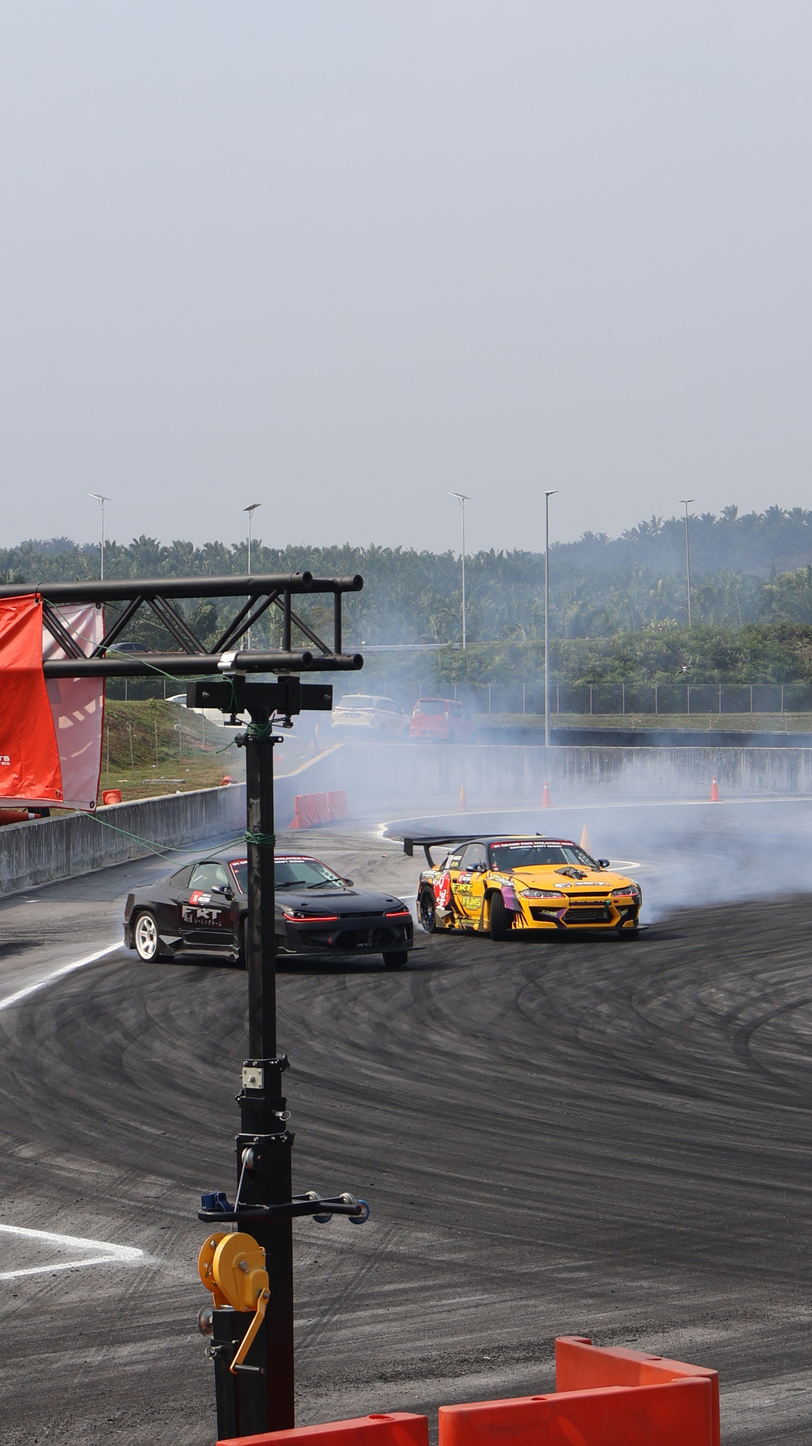
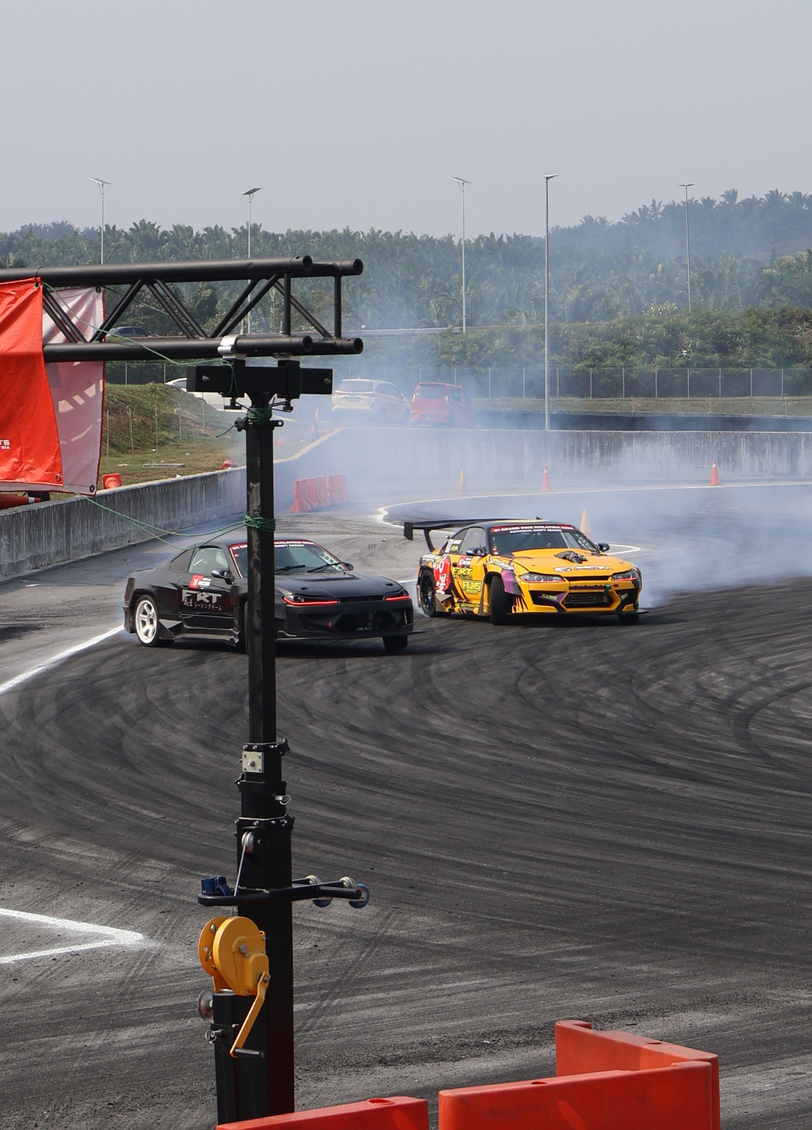
Carousel autoplay interval: 10s -> 5s

diff --git a/src/app/page.tsx b/src/app/page.tsx
@@ -456,7 +456,7 @@ export default function Home() {
                       slide: image.src,
                       alt: image.alt,
                     }))}
-                    play={{ auto: true, interval: 10000, controls: true }}
+                    play={{ auto: true, interval: 5000, controls: true }}
                   />
                 </Row>
               )}

diff --git a/src/resources/content.tsx b/src/resources/content.tsx
@@ -200,7 +200,6 @@ const about: About = {
       { src: "/images/hobby/IMG_5561.JPG", alt: "Car photo" },
       { src: "/images/hobby/IMG_6986.JPG", alt: "Car photo" },
       { src: "/images/hobby/IMG_8552.JPG", alt: "Car photo" },
-      { src: "/images/hobby/IMG_8584.JPG", alt: "Car photo" },
     ],
   },
 };
